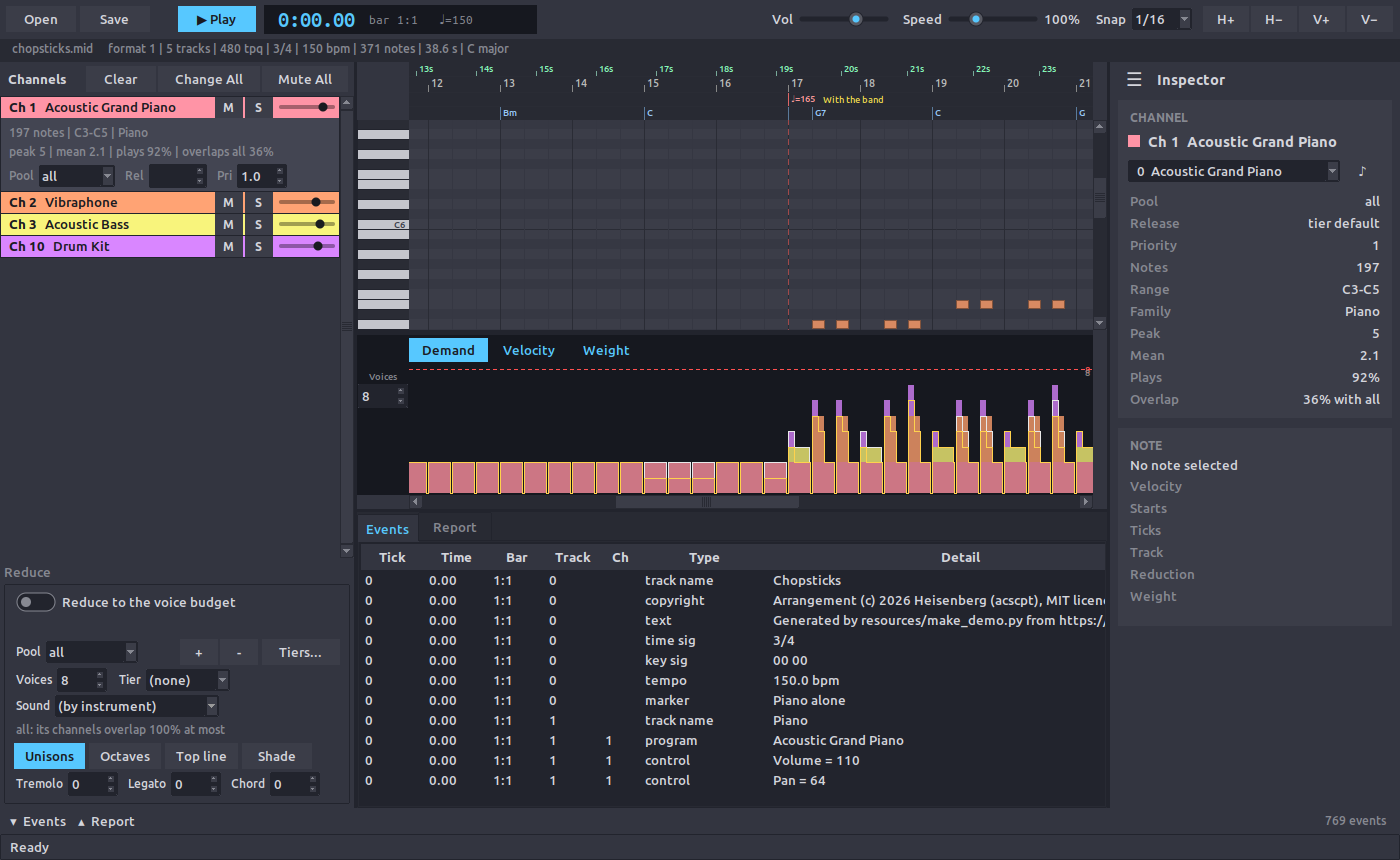
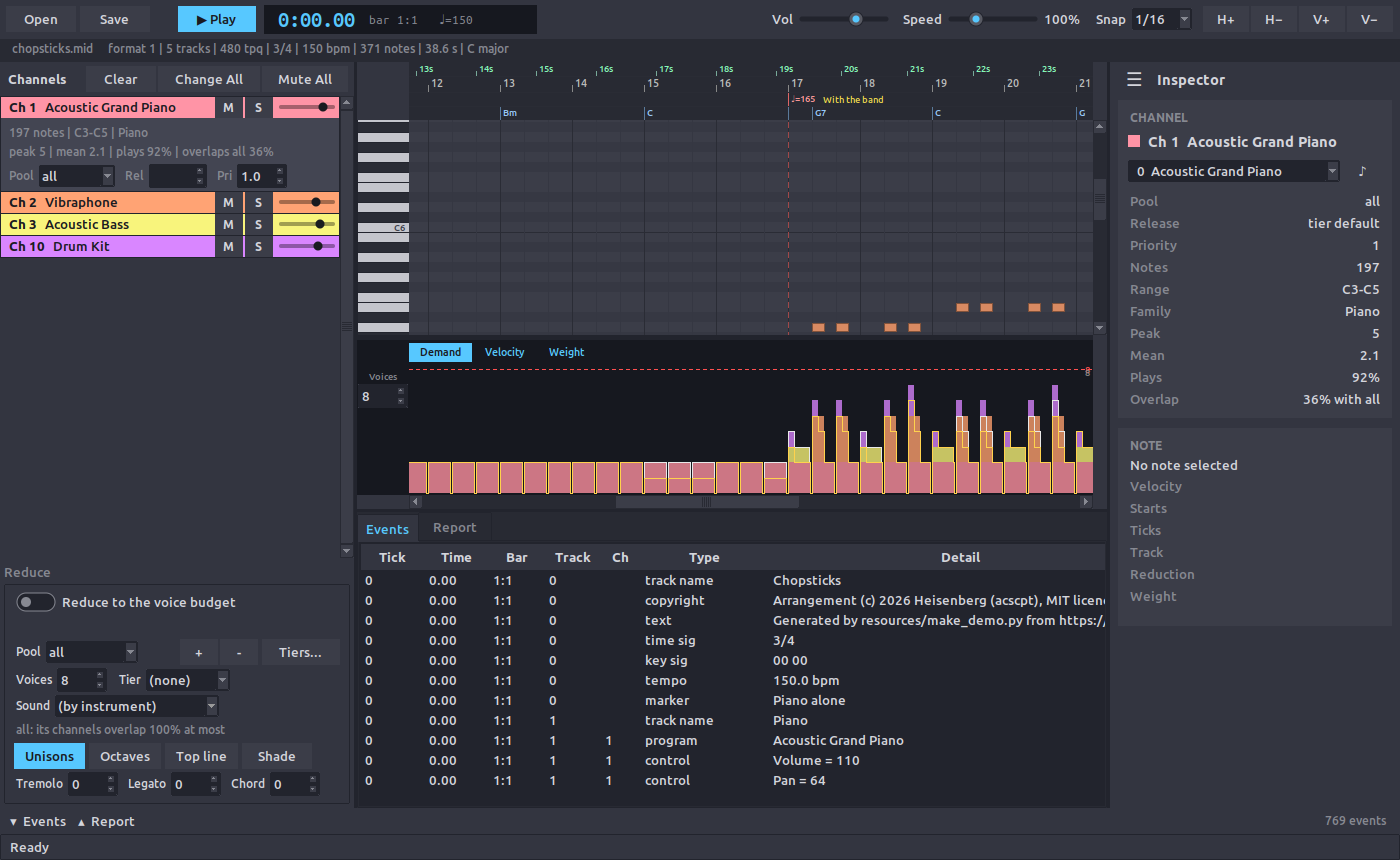
Set the lane switch in an 8 pt font with tighter padding; retake the screenshots

diff --git a/montyroll/app.py b/montyroll/app.py
@@ -800,6 +800,8 @@ class MidiEditorApp(tk.Tk):
         gutter = ttk.Frame(roll, width=KEYS_W, style="Lane.TFrame")
         switch = ttk.Frame(roll, padding=(KEYS_W, 3, 0, 3), style="Lane.TFrame")
         switch.grid(row=3, column=0, columnspan=2, sticky="ew")
+        ttk.Style(self).configure("Lane.Toggle.TButton", font=(self.uiFamily, 8),
+                                  padding=(8, 0))
 
         for lane, tip in (("Demand", "Voices sounding over time, against the budget"),
                           ("Velocity", "A bar for each note at its start, as tall as its velocity"),
